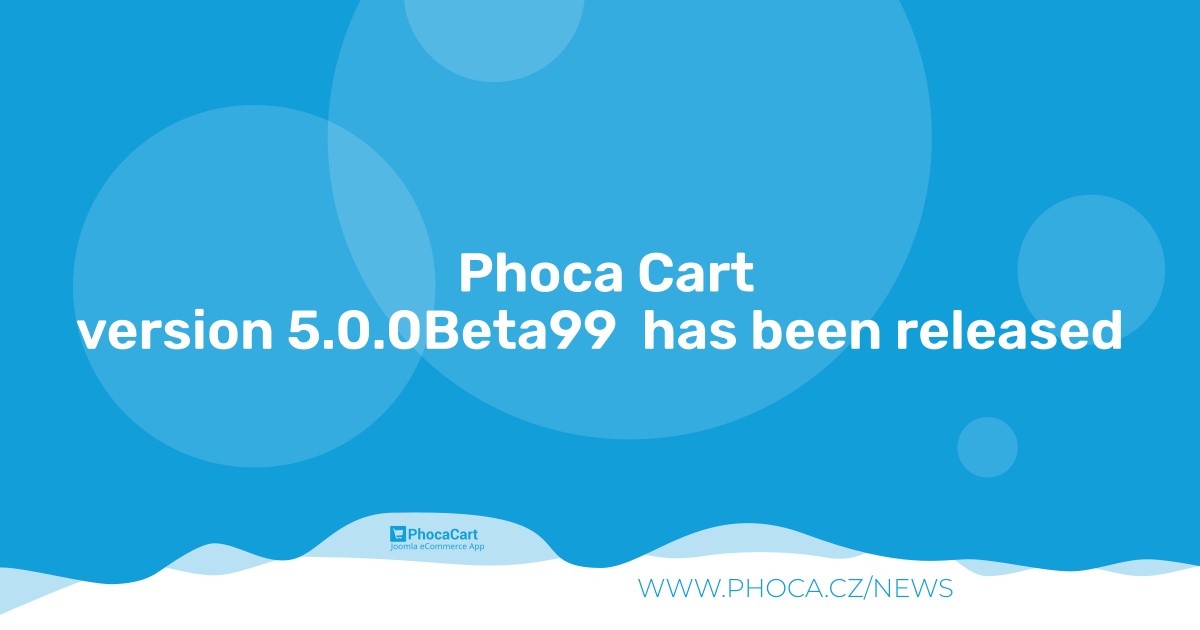
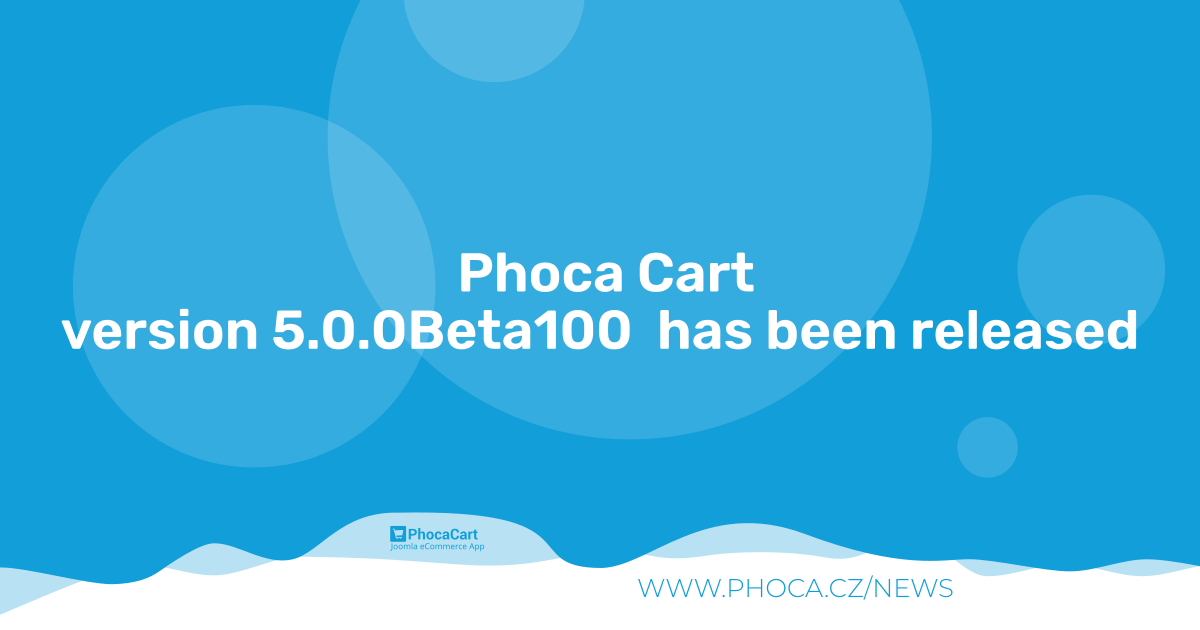
5.0.0Beta100

Changed region(s): [[0.0308, 0.4825, 0.9558, 0.573]]

diff --git a/media/js/phoca/phocafilter.min.js b/media/js/phoca/phocafilter.min.js
@@ -1,1 +1,1 @@
-let phFilterNewUrlSet="",phFilterNewUrlRemove="",phFilterNewUrlSetPreviousParamWaiting=0,phFilterNewUrlRemovePreviousParamWaiting=0;function phEscapeRegExp(e){return e.replace(/([.*+?^=!:${}()|\[\]\/\\])/g,"\\$1")}function phReplaceAll(e,r,t){return t.replace(new RegExp(phEscapeRegExp(e),"g"),r)}function phEncode(e){e=encodeURIComponent(e);return e=phReplaceAll("%5B","[",e),e=phReplaceAll("%5D","]",e),e=phReplaceAll("%2C",",",e),phReplaceAll("%3A",":",e)}function phArrayToString(e){e=phReplaceAll("[","(",e);return phReplaceAll("]",")",e)}function phStringToArray(e){e=phReplaceAll("(","[",e);return phReplaceAll(")","]",e)}function phCleanArray(r){var t=[];for(let e=0;e<r.length;e++)r[e]&&t.push(r[e]);return t}function phCleanEmptyParams(e){return e.replace(/&?[^&?]+=(?=(?:&|$))/g,"")}function phCleanAloneQuestionMark(e){return e="?"==(e="?&"==e?"?":e)?"":e}function phFilterValue(e){e=phReplaceAll("<","",e);return phReplaceAll(">","",e)}function phResetNewUrl(e){phFilterNewUrlRemove="",phFilterNewUrlSet="",1==e&&(phFilterNewUrlRemovePreviousParamWaiting=0,phFilterNewUrlSetPreviousParamWaiting=0)}function phIsString(e){return"string"==typeof e}function phGetQueryString(e){return e.replace(/(?:^[^?#]*\?([^#]*).*$)?.*/,"$1")}function phUrlParam(e){if(null==e)return"";const i=[],l=/\[\]$/,a=(e,r)=>{let t="function"==typeof r?r():r;null==t&&(t=""),i.push(encodeURIComponent(e)+"="+encodeURIComponent(t))},o=(t,e)=>{if(Array.isArray(e))e.forEach((e,r)=>{l.test(t)?a(t,e):(r="object"==typeof e&&null!=e?r:"",o(t+`[${r}]`,e))});else if("object"==typeof e&&null!=e)for(var[r,i]of Object.entries(e))o(`${t}[${r}]`,i);else a(t,e)};if(Array.isArray(e))e.forEach(e=>a(e.name,e.value));else for(var[r,t]of Object.entries(e))o(r,t);return i.join("&")}function phUrlDeParam(e,o){let n={},p={true:!0,false:!1,null:null};return e.replace(/\+/g," ").split("&").forEach(function(e){e=e.split("=");let r=decodeURIComponent(e[0]),t="",i=n,l=r.split("]["),a=l.length-1;if(a=/\[/.test(l[0])&&/\]$/.test(l[a])?(l[a]=l[a].replace(/\]$/,""),(l=l.shift().split("[").concat(l)).length-1):0,2===e.length)if(t=decodeURIComponent(e[1]),o&&(t=t&&!isNaN(t)?+t:"undefined"===t?void 0:void 0!==p[t]?p[t]:t),a)for(let e=0;e<=a;e++)r=""===l[e]?i.length:l[e],i=i[r]=e<a?i[r]||(l[e+1]&&isNaN(l[e+1])?{}:[]):t;else Array.isArray(n[r])?n[r].push(t):void 0!==n[r]?n[r]=[n[r],t]:n[r]=t;else r&&(n[r]=o?void 0:"")}),n}function phUrlParamQueryString(e,r,t){let i="",l="";var a,o,n;return i=void 0!==r?(n=(a=e.match(/^([^#?]*)\??([^#]*)(#?.*)/))[3]||"",l=2===t&&phIsString(r)?r.replace(/^.*\?|#.*$/g,""):(o=phUrlDeParam(a[2]),r=phIsString(r)?phUrlDeParamQueryString(r):r,phUrlParam(l=2===t?r:1===t?{...r,...o}:{...o,...r})),a[1]+(l||!a[1]?"?":"")+l+n):phGetQueryString(void 0!==e?e:window.location.href)}function phUrlDeParamQueryString(e,r){return phUrlDeParam(e=void 0===e||"boolean"==typeof e?(r=e,phUrlParamQueryString()):phIsString(e)?e.replace(/^.*\?|#.*$/g,""):e,r)}function phRemoveFilter(r,t,e,i,l,a,o,n){var p=Joomla.getOptions("phParamsPC"),h=(1!=p.ajaxSearchingFilteringItems&&(phFilterNewUrlSet=i),r=phArrayToString(r),phUrlParamQueryString()),h=phArrayToString(h);let c,s={},m=0;if(void 0!==(c=""!==phFilterNewUrlRemove||1==phFilterNewUrlRemovePreviousParamWaiting?phUrlDeParamQueryString(phFilterNewUrlRemove):phUrlDeParamQueryString(h)).start&&(s.start=""),void 0!==c.limitstart&&(s.limitstart=""),1==a)delete c[r],s=c,m=2;else if(void 0!==c[r]){let e=c[r];h=e.split(",");-1!==(h=phCleanArray(h)).indexOf(t)&&(-1<(a=h.indexOf(t))&&h.splice(a,1),(e=h.join())?s[r]=e:(delete c[r],s=c,m=2))}else delete c[r],s=c,m=2;let u;if(1==e&&1!=l||1!=e)""==(u=i)&&(u=document.location.pathname),document.location=u;else if(u=location.search,u=phArrayToString(u=""===phFilterNewUrlRemove&&1!=phFilterNewUrlRemovePreviousParamWaiting?u:phFilterNewUrlRemove),phFilterNewUrlRemove=phReplaceAll("%2C",",",phFilterNewUrlRemove=phUrlParamQueryString(u,s,m)),phFilterNewUrlRemove=phReplaceAll("%5B","[",phFilterNewUrlRemove),phFilterNewUrlRemove=phReplaceAll("%5D","]",phFilterNewUrlRemove),phFilterNewUrlRemove=phCleanAloneQuestionMark(phFilterNewUrlRemove=phStringToArray(phFilterNewUrlRemove=phReplaceAll("%3A",":",phFilterNewUrlRemove))),1==o){if((phFilterNewUrlRemovePreviousParamWaiting=1)==e&&1==p.ajaxSearchingFilteringItems)return 2}else{if(1==e&&1==p.ajaxSearchingFilteringItems)return phUpdatePageAndParts(phFilterNewUrlRemove,n),phResetNewUrl(1),2;""==phFilterNewUrlRemove&&(phFilterNewUrlRemove=document.location.pathname),document.location=phFilterNewUrlRemove,phResetNewUrl()}return 1}function phSetFilter(r,t,e,i,l,a,o,n){var p=Joomla.getOptions("phParamsPC"),h=(t=phFilterValue(t),r=phArrayToString(r),phUrlParamQueryString()),h=phArrayToString(h);let c;var s={};if(void 0!==(c=1==phFilterNewUrlSetPreviousParamWaiting?phUrlDeParamQueryString(phFilterNewUrlSet=phArrayToString(phFilterNewUrlSet)):phUrlDeParamQueryString(h)).start&&(s.start=""),void 0!==c.limitstart&&(s.limitstart=""),1==a)s[r]=t;else if(""!==t)if(void 0!==c[r]){let e=c[r];h=e.split(",");-1===(h=phCleanArray(h)).indexOf(t)&&(h.push(t),e=h.join()),s[r]=e}else s[r]=t;let m;if(m=1==e&&1!=l||1!=e?i:location.search,m=phArrayToString(m=1==phFilterNewUrlSetPreviousParamWaiting?phFilterNewUrlSet:m),phFilterNewUrlSet=phReplaceAll("%2C",",",phFilterNewUrlSet=phUrlParamQueryString(m,s,0)),phFilterNewUrlSet=phReplaceAll("%5B","[",phFilterNewUrlSet),phFilterNewUrlSet=phReplaceAll("%5D","]",phFilterNewUrlSet),phFilterNewUrlSet=phCleanAloneQuestionMark(phFilterNewUrlSet=phCleanEmptyParams(phFilterNewUrlSet=phStringToArray(phFilterNewUrlSet=phReplaceAll("%3A",":",phFilterNewUrlSet)))),1==o){if((phFilterNewUrlSetPreviousParamWaiting=1)==e&&1==p.ajaxSearchingFilteringItems)return 2}else{if(1==e&&1==p.ajaxSearchingFilteringItems)return phUpdatePageAndParts(phFilterNewUrlSet,n),phResetNewUrl(1),2;document.location=phFilterNewUrlSet,phResetNewUrl()}return 1}function phChangeFilter(e,r,t,i,l,a,o){var n=Joomla.getOptions("phVarsModPhocacartFilter"),p=Joomla.getOptions("phParamsModPhocacartFilter"),h=n.isItemsView,c=n.isSef;const s=n.urlItemsView;var n=n.urlItemsViewWithoutParams;let m=1;"itemview"==i?(void 0===r&&(r=""),m=phSetFilter(e,r,1,0,1,l,a,o)):"text"==i?m=(1==t?phSetFilter:phRemoveFilter)(e,r,h,s,1,l,a,o):"category"==i?(s=n,1!=p.removeParametersCat&&(n=phUrlParamQueryString(),1==h)?1==c?document.location=phUrlParamQueryString(s,n,2):phRemoveFilter(e,r,h,s,1,l,a,o):document.location=s):"color"==i||"image"==i?jQuery(t).hasClass("on")?(m=phRemoveFilter(e,r,h,s,1,l,a,o),jQuery(t).removeClass("on")):(m=phSetFilter(e,r,h,s,1,l,a,o),jQuery(t).addClass("on")):m=(t.checked?phSetFilter:phRemoveFilter)(e,r,h,s,1,l,a,o);var u,p=document.getElementById("phItemFilterBoxOffCanvas");p&&(u=bootstrap.Offcanvas.getInstance(p),setTimeout(function(){u.hide()},500)),startFullOverlay(m)}function phChangeSearch(e,r,t){var i=Joomla.getOptions("phVarsModPhocacartSearch"),l=Joomla.getOptions("phParamsModPhocacartSearch"),a=i.isItemsView;let o=i.urlItemsView;i=i.urlItemsViewWithoutParams;let n=1,p=a;n=(1==t?(1==l.searchOptions?0<jQuery(".phSearchBoxSearchAllProducts:checked").length&&(o=i,p=0):p=0,phSetFilter):phRemoveFilter)(e,r,a,o,p,1,0,2);t=document.getElementById("phItemSearchBoxOffCanvas");t&&bootstrap.Offcanvas.getInstance(t).hide(),startFullOverlay(n)}function phPriceFilterRange(){const i=Joomla.getOptions("phParamsPC"),l=Joomla.getOptions("phLangPC");"function"==typeof jQuery("#phPriceFilterRange").slider&&jQuery("#phPriceFilterRange").slider({range:!0,min:i.filterPriceMin,max:i.filterPriceMax,values:[i.filterPriceFrom,i.filterPriceTo],slide:function(e,r){jQuery("#phPriceFromTopricefrom").val(r.values[0]),jQuery("#phPriceFromTopriceto").val(r.values[1]),jQuery("#phPriceFilterPrice").html(l.COM_PHOCACART_PRICE+": "+phGetPriceFormat(r.values[0])+" - "+phGetPriceFormat(r.values[1]))}}),jQuery("#phPriceFilterPrice").html(l.COM_PHOCACART_PRICE+": "+phGetPriceFormat(i.filterPriceFrom)+" - "+phGetPriceFormat(i.filterPriceTo)),jQuery("#phPriceFromTopricefrom").on("change",function(e){let r=jQuery("#phPriceFromTopricefrom").val(),t=jQuery("#phPriceFromTopriceto").val();""==t&&(t=i.filterPriceMax),""==r&&(r=i.filterPriceMin),Number(t)<Number(r)&&(t=r,jQuery("#phPriceFromTopriceto").val(t)),"function"==typeof jQuery("#phPriceFilterRange").slider&&jQuery("#phPriceFilterRange").slider({values:[r,t]}),jQuery("#phPriceFilterPrice").html(l.COM_PHOCACART_PRICE+": "+phGetPriceFormat(r)+" - "+phGetPriceFormat(t))}),jQuery("#phPriceFromTopriceto").on("change",function(e){let r=jQuery("#phPriceFromTopricefrom").val(),t=jQuery("#phPriceFromTopriceto").val();""==t&&(t=i.filterPriceMax),""==r&&(r=i.filterPriceMin),Number(t)<Number(r)&&(t=r,jQuery("#phPriceFromTopriceto").val(t)),"function"==typeof jQuery("#phPriceFilterRange").slider&&jQuery("#phPriceFilterRange").slider({values:[r,t]}),jQuery("#phPriceFilterPrice").html(l.COM_PHOCACART_PRICE+": "+phGetPriceFormat(r)+" - "+phGetPriceFormat(t))})}function phClearField(e){jQuery(e).val(""),"#phPriceFromTopricefrom"!=e&&"#phPriceFromTopriceto"!=e||phPriceFilterRange()}jQuery(document).ready(function(){jQuery(".collapse").on("shown.bs.collapse",function(){jQuery(this).parent().find(".glyphicon-triangle-right").removeClass("glyphicon-triangle-right").addClass("glyphicon-triangle-bottom"),jQuery(this).parent().find(".fa-caret-right").removeClass("fa-caret-right").addClass("fa-caret-down");var r=jQuery(this).parent().find("svg use").first();if(0<r.length){let e=r.attr("xlink:href");e=e.replace("#pc-si-triangle-right","#pc-si-triangle-bottom"),r.attr("xlink:href",e)}}).on("hidden.bs.collapse",function(){jQuery(this).parent().find(".glyphicon-triangle-bottom").removeClass("glyphicon-triangle-bottom").addClass("glyphicon-triangle-right"),jQuery(this).parent().find(".fa-caret-down").removeClass("fa-caret-down").addClass("fa-caret-right");var r=jQuery(this).parent().find("svg use").first();if(0<r.length){let e=r.attr("xlink:href");e=e.replace("#pc-si-triangle-bottom","#pc-si-triangle-right"),r.attr("xlink:href",e)}}),phPriceFilterRange()});
+let phFilterNewUrlSet="",phFilterNewUrlRemove="",phFilterNewUrlSetPreviousParamWaiting=0,phFilterNewUrlRemovePreviousParamWaiting=0;function phEscapeRegExp(e){return e.replace(/([.*+?^=!:${}()|\[\]\/\\])/g,"\\$1")}function phReplaceAll(e,r,t){return t.replace(new RegExp(phEscapeRegExp(e),"g"),r)}function phEncode(e){e=encodeURIComponent(e);return e=phReplaceAll("%5B","[",e),e=phReplaceAll("%5D","]",e),e=phReplaceAll("%2C",",",e),phReplaceAll("%3A",":",e)}function phArrayToString(e){e=phReplaceAll("[","(",e);return phReplaceAll("]",")",e)}function phStringToArray(e){e=phReplaceAll("(","[",e);return phReplaceAll(")","]",e)}function phCleanArray(r){var t=[];for(let e=0;e<r.length;e++)r[e]&&t.push(r[e]);return t}function phCleanEmptyParams(e){return e.replace(/&?[^&?]+=(?=(?:&|$))/g,"")}function phCleanAloneQuestionMark(e){return e="?"==(e="?&"==e?"?":e)?"":e}function phFilterValue(e){e=phReplaceAll("<","",e);return phReplaceAll(">","",e)}function phResetNewUrl(e){phFilterNewUrlRemove="",phFilterNewUrlSet="",1==e&&(phFilterNewUrlRemovePreviousParamWaiting=0,phFilterNewUrlSetPreviousParamWaiting=0)}function phIsString(e){return"string"==typeof e}function phGetQueryString(e){return e.replace(/(?:^[^?#]*\?([^#]*).*$)?.*/,"$1")}function phUrlParam(e){if(null==e)return"";const i=[],l=/\[\]$/,a=(e,r)=>{let t="function"==typeof r?r():r;null==t&&(t=""),i.push(encodeURIComponent(e)+"="+encodeURIComponent(t))},o=(t,e)=>{if(Array.isArray(e))e.forEach((e,r)=>{l.test(t)?a(t,e):(r="object"==typeof e&&null!=e?r:"",o(t+`[${r}]`,e))});else if("object"==typeof e&&null!=e)for(var[r,i]of Object.entries(e))o(`${t}[${r}]`,i);else a(t,e)};if(Array.isArray(e))e.forEach(e=>a(e.name,e.value));else for(var[r,t]of Object.entries(e))o(r,t);return i.join("&")}function phUrlDeParam(e,o){let n={},p={true:!0,false:!1,null:null};return e.replace(/\+/g," ").split("&").forEach(function(e){e=e.split("=");let r=decodeURIComponent(e[0]),t="",i=n,l=r.split("]["),a=l.length-1;if(a=/\[/.test(l[0])&&/\]$/.test(l[a])?(l[a]=l[a].replace(/\]$/,""),(l=l.shift().split("[").concat(l)).length-1):0,2===e.length)if(t=decodeURIComponent(e[1]),o&&(t=t&&!isNaN(t)?+t:"undefined"===t?void 0:void 0!==p[t]?p[t]:t),a)for(let e=0;e<=a;e++)r=""===l[e]?i.length:l[e],i=i[r]=e<a?i[r]||(l[e+1]&&isNaN(l[e+1])?{}:[]):t;else Array.isArray(n[r])?n[r].push(t):void 0!==n[r]?n[r]=[n[r],t]:n[r]=t;else r&&(n[r]=o?void 0:"")}),n}function phUrlParamQueryString(e,r,t){let i="",l="";var a,o,n;return i=void 0!==r?(n=(a=e.match(/^([^#?]*)\??([^#]*)(#?.*)/))[3]||"",l=2===t&&phIsString(r)?r.replace(/^.*\?|#.*$/g,""):(o=phUrlDeParam(a[2]),r=phIsString(r)?phUrlDeParamQueryString(r):r,phUrlParam(l=2===t?r:1===t?{...r,...o}:{...o,...r})),a[1]+(l||!a[1]?"?":"")+l+n):phGetQueryString(void 0!==e?e:window.location.href)}function phUrlDeParamQueryString(e,r){return phUrlDeParam(e=void 0===e||"boolean"==typeof e?(r=e,phUrlParamQueryString()):phIsString(e)?e.replace(/^.*\?|#.*$/g,""):e,r)}function phRemoveFilter(r,t,e,i,l,a,o,n){var p=Joomla.getOptions("phParamsPC"),h=(1!=p.ajaxSearchingFilteringItems&&(phFilterNewUrlSet=i),r=phArrayToString(r),phUrlParamQueryString()),h=phArrayToString(h);let c,s={},m=0;if(void 0!==(c=""!==phFilterNewUrlRemove||1==phFilterNewUrlRemovePreviousParamWaiting?phUrlDeParamQueryString(phFilterNewUrlRemove):phUrlDeParamQueryString(h)).start&&(s.start=""),void 0!==c.limitstart&&(s.limitstart=""),1==a)delete c[r],s=c,m=2;else if(void 0!==c[r]){let e=c[r];h=e.split(",");-1!==(h=phCleanArray(h)).indexOf(t)&&(-1<(a=h.indexOf(t))&&h.splice(a,1),(e=h.join())?s[r]=e:(delete c[r],s=c,m=2))}else delete c[r],s=c,m=2;let u;if(1==e&&1!=l||1!=e)""==(u=i)&&(u=document.location.pathname),document.location=u;else if(u=location.search,u=phArrayToString(u=""===phFilterNewUrlRemove&&1!=phFilterNewUrlRemovePreviousParamWaiting?u:phFilterNewUrlRemove),phFilterNewUrlRemove=phReplaceAll("%2C",",",phFilterNewUrlRemove=phUrlParamQueryString(u,s,m)),phFilterNewUrlRemove=phReplaceAll("%5B","[",phFilterNewUrlRemove),phFilterNewUrlRemove=phReplaceAll("%5D","]",phFilterNewUrlRemove),phFilterNewUrlRemove=phCleanAloneQuestionMark(phFilterNewUrlRemove=phStringToArray(phFilterNewUrlRemove=phReplaceAll("%3A",":",phFilterNewUrlRemove))),1==o){if((phFilterNewUrlRemovePreviousParamWaiting=1)==e&&1==p.ajaxSearchingFilteringItems)return 2}else{if(1==e&&1==p.ajaxSearchingFilteringItems)return phUpdatePageAndParts(phFilterNewUrlRemove,n),phResetNewUrl(1),2;""==phFilterNewUrlRemove&&(phFilterNewUrlRemove=document.location.pathname),document.location=phFilterNewUrlRemove,phResetNewUrl()}return 1}function phSetFilter(r,t,e,i,l,a,o,n){var p=Joomla.getOptions("phParamsPC"),h=(t=phFilterValue(t),r=phArrayToString(r),phUrlParamQueryString()),h=phArrayToString(h);let c;var s={};if(void 0!==(c=1==phFilterNewUrlSetPreviousParamWaiting?phUrlDeParamQueryString(phFilterNewUrlSet=phArrayToString(phFilterNewUrlSet)):phUrlDeParamQueryString(h)).start&&(s.start=""),void 0!==c.limitstart&&(s.limitstart=""),1==a)s[r]=t;else if(""!==t)if(void 0!==c[r]){let e=c[r];h=e.split(",");-1===(h=phCleanArray(h)).indexOf(t)&&(h.push(t),e=h.join()),s[r]=e}else s[r]=t;let m;if(m=1==e&&1!=l||1!=e?i:location.search,m=phArrayToString(m=1==phFilterNewUrlSetPreviousParamWaiting?phFilterNewUrlSet:m),phFilterNewUrlSet=phReplaceAll("%2C",",",phFilterNewUrlSet=phUrlParamQueryString(m,s,0)),phFilterNewUrlSet=phReplaceAll("%5B","[",phFilterNewUrlSet),phFilterNewUrlSet=phReplaceAll("%5D","]",phFilterNewUrlSet),phFilterNewUrlSet=phCleanAloneQuestionMark(phFilterNewUrlSet=phCleanEmptyParams(phFilterNewUrlSet=phStringToArray(phFilterNewUrlSet=phReplaceAll("%3A",":",phFilterNewUrlSet)))),1==o){if((phFilterNewUrlSetPreviousParamWaiting=1)==e&&1==p.ajaxSearchingFilteringItems)return 2}else{if(1==e&&1==p.ajaxSearchingFilteringItems)return phUpdatePageAndParts(phFilterNewUrlSet,n),phResetNewUrl(1),2;document.location=phFilterNewUrlSet,phResetNewUrl()}return 1}function phChangeFilter(e,r,t,i,l,a,o){var n=Joomla.getOptions("phVarsModPhocacartFilter"),p=Joomla.getOptions("phParamsModPhocacartFilter"),h=n.isItemsView,c=n.isSef;let s=n.urlItemsView;var n=n.urlItemsViewWithoutParams;let m=1;"itemview"==i?(void 0===r&&(r=""),m=phSetFilter(e,r,1,0,1,l,a,o)):"text"==i?m=(1==t?phSetFilter:phRemoveFilter)(e,r,h,s,1,l,a,o):"category"==i?(s=n,1!=p.removeParametersCat&&(n=phUrlParamQueryString(),1==h)?1==c?document.location=phUrlParamQueryString(s,n,2):phRemoveFilter(e,r,h,s,1,l,a,o):document.location=s):"color"==i||"image"==i?jQuery(t).hasClass("on")?(m=phRemoveFilter(e,r,h,s,1,l,a,o),jQuery(t).removeClass("on")):(m=phSetFilter(e,r,h,s,1,l,a,o),jQuery(t).addClass("on")):m=(t.checked?phSetFilter:phRemoveFilter)(e,r,h,s,1,l,a,o);var u,p=document.getElementById("phItemFilterBoxOffCanvas");p&&(u=bootstrap.Offcanvas.getInstance(p),setTimeout(function(){u.hide()},500)),startFullOverlay(m)}function phChangeSearch(e,r,t){var i=Joomla.getOptions("phVarsModPhocacartSearch"),l=Joomla.getOptions("phParamsModPhocacartSearch"),a=i.isItemsView;let o=i.urlItemsView;i=i.urlItemsViewWithoutParams;let n=1,p=a;n=(1==t?(1==l.searchOptions?0<jQuery(".phSearchBoxSearchAllProducts:checked").length&&(o=i,p=0):p=0,phSetFilter):phRemoveFilter)(e,r,a,o,p,1,0,2);t=document.getElementById("phItemSearchBoxOffCanvas");t&&bootstrap.Offcanvas.getInstance(t).hide(),startFullOverlay(n)}function phPriceFilterRange(){const i=Joomla.getOptions("phParamsPC"),l=Joomla.getOptions("phLangPC");"function"==typeof jQuery("#phPriceFilterRange").slider&&jQuery("#phPriceFilterRange").slider({range:!0,min:i.filterPriceMin,max:i.filterPriceMax,values:[i.filterPriceFrom,i.filterPriceTo],slide:function(e,r){jQuery("#phPriceFromTopricefrom").val(r.values[0]),jQuery("#phPriceFromTopriceto").val(r.values[1]),jQuery("#phPriceFilterPrice").html(l.COM_PHOCACART_PRICE+": "+phGetPriceFormat(r.values[0])+" - "+phGetPriceFormat(r.values[1]))}}),jQuery("#phPriceFilterPrice").html(l.COM_PHOCACART_PRICE+": "+phGetPriceFormat(i.filterPriceFrom)+" - "+phGetPriceFormat(i.filterPriceTo)),jQuery("#phPriceFromTopricefrom").on("change",function(e){let r=jQuery("#phPriceFromTopricefrom").val(),t=jQuery("#phPriceFromTopriceto").val();""==t&&(t=i.filterPriceMax),""==r&&(r=i.filterPriceMin),Number(t)<Number(r)&&(t=r,jQuery("#phPriceFromTopriceto").val(t)),"function"==typeof jQuery("#phPriceFilterRange").slider&&jQuery("#phPriceFilterRange").slider({values:[r,t]}),jQuery("#phPriceFilterPrice").html(l.COM_PHOCACART_PRICE+": "+phGetPriceFormat(r)+" - "+phGetPriceFormat(t))}),jQuery("#phPriceFromTopriceto").on("change",function(e){let r=jQuery("#phPriceFromTopricefrom").val(),t=jQuery("#phPriceFromTopriceto").val();""==t&&(t=i.filterPriceMax),""==r&&(r=i.filterPriceMin),Number(t)<Number(r)&&(t=r,jQuery("#phPriceFromTopriceto").val(t)),"function"==typeof jQuery("#phPriceFilterRange").slider&&jQuery("#phPriceFilterRange").slider({values:[r,t]}),jQuery("#phPriceFilterPrice").html(l.COM_PHOCACART_PRICE+": "+phGetPriceFormat(r)+" - "+phGetPriceFormat(t))})}function phClearField(e){jQuery(e).val(""),"#phPriceFromTopricefrom"!=e&&"#phPriceFromTopriceto"!=e||phPriceFilterRange()}jQuery(document).ready(function(){jQuery(".collapse").on("shown.bs.collapse",function(){jQuery(this).parent().find(".glyphicon-triangle-right").removeClass("glyphicon-triangle-right").addClass("glyphicon-triangle-bottom"),jQuery(this).parent().find(".fa-caret-right").removeClass("fa-caret-right").addClass("fa-caret-down");var r=jQuery(this).parent().find("svg use").first();if(0<r.length){let e=r.attr("xlink:href");e=e.replace("#pc-si-triangle-right","#pc-si-triangle-bottom"),r.attr("xlink:href",e)}}).on("hidden.bs.collapse",function(){jQuery(this).parent().find(".glyphicon-triangle-bottom").removeClass("glyphicon-triangle-bottom").addClass("glyphicon-triangle-right"),jQuery(this).parent().find(".fa-caret-down").removeClass("fa-caret-down").addClass("fa-caret-right");var r=jQuery(this).parent().find("svg use").first();if(0<r.length){let e=r.attr("xlink:href");e=e.replace("#pc-si-triangle-bottom","#pc-si-triangle-right"),r.attr("xlink:href",e)}}),phPriceFilterRange()});

diff --git a/media/js/phoca/phocafilter.js b/media/js/phoca/phocafilter.js
@@ -601,7 +601,7 @@ function phChangeFilter(paramV, value, formAction, formType, uniqueValue, wait, 
     const phParams = Joomla.getOptions("phParamsModPhocacartFilter");
     const isItemsView = phVars["isItemsView"];
     let isSef = phVars["isSef"];
-    const urlItemsView = phVars["urlItemsView"];
+    let urlItemsView = phVars["urlItemsView"];
     const urlItemsViewWithoutParams = phVars["urlItemsViewWithoutParams"];
     let phA = 1;
 
@@ -694,7 +694,7 @@ function phChangeSearch(paramV, value, formAction) {
     } else {
         phA = phRemoveFilter(paramV, value, isItemsView, urlItemsView, filteredProductsOnly, 1, 0, 2);
     }
-    
+
     // Possible search in offcanvas
     var phItemSearchBoxOffCanvas = document.getElementById('phItemSearchBoxOffCanvas');
     if(phItemSearchBoxOffCanvas) {

diff --git a/admin/libraries/phocacart/order/status.php b/admin/libraries/phocacart/order/status.php
@@ -1062,7 +1062,7 @@ class PhocacartOrderStatus
 						}
 
 						if (isset($bodyRecipient[$k]['output']) /*&& $bodyRecipient[$k]['output'] != ''*/) {
-							$recipeintBody = $recipientBody . $bodyRecipient[$k]['output'];
+							$recipientBody = $recipientBody . $bodyRecipient[$k]['output'];
 							$recipientBody = PhocacartText::completeText($recipientBody, $r, 3);
 							$recipientBody = PhocacartText::completeTextFormFields($recipientBody, $bas['b'], $bas['s']);
 						}
@@ -1077,7 +1077,7 @@ class PhocacartOrderStatus
 							$pdf                  = new stdClass();
 							$content              = new stdClass();
 							$document             = new stdClass();
-							$statidData['output'] = '';
+							$staticData['output'] = '';
 							PhocaPDFRender::initializePDF($pdf, $content, $document, $staticData);
 
 							$staticData['pdf_destination'] = 'S';

diff --git a/admin/libraries/phocacart/price/history.php b/admin/libraries/phocacart/price/history.php
@@ -264,7 +264,7 @@ class PhocacartPriceHistory
 	}
 
 
-	public static function getPriceHistoryChartById($productId) {
+	public static function getPriceHistoryChartById($productId, $currencyRate = 0) {
 
 		$data = array();
 		$dataX = $dataY = array();
@@ -273,7 +273,11 @@ class PhocacartPriceHistory
 		if (!empty($history)) {
 			foreach($history as $k => $v) {
 
-				$dataY[] = '\'' . $v['price'] . '\'';
+                $price =  $v['price'];
+                if ($currencyRate > 0) {
+                    $price = $v['price'] * $currencyRate;
+                }
+				$dataY[] = '\'' . $price . '\'';
 				$dataX[] = '\'' . HTMLHelper::_('date', $v['date'] , Text::_('DATE_FORMAT_LC3')) .'\'';
 			}
 		}

diff --git a/site/views/item/view.html.php b/site/views/item/view.html.php
@@ -162,7 +162,8 @@ class PhocaCartViewItem extends HtmlView
 			$this->t['reviews']				= PhocacartReview::getReviewsByProduct((int)$id);
 
 			if ($this->t['enable_price_history']) {
-				$this->t['price_history_data']	= PhocacartPriceHistory::getPriceHistoryChartById((int)$id);
+                $currencyRate      = PhocacartCurrency::getCurrentCurrencyRateIfNotDefault();
+				$this->t['price_history_data']	= PhocacartPriceHistory::getPriceHistoryChartById((int)$id, $currencyRate);
 			}
 
 			$this->t['parameters_output']	= PhocacartParameter::getParametersRendered((int)$id, $this->t['item_display_parameters']);

diff --git a/README.MD b/README.MD
@@ -132,7 +132,7 @@ Phoca Cart is e-commerce extension - powerful shopping cart for Joomla! CMS. Pho
 
 ## Version (Joomla! 5.x)
 
-5.0.0Beta99
+5.0.0Beta100
 
 
 
